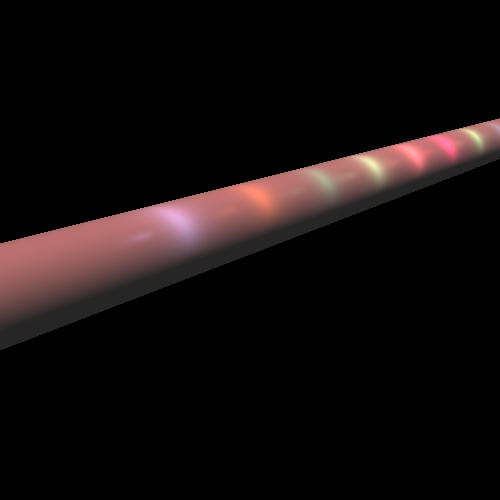
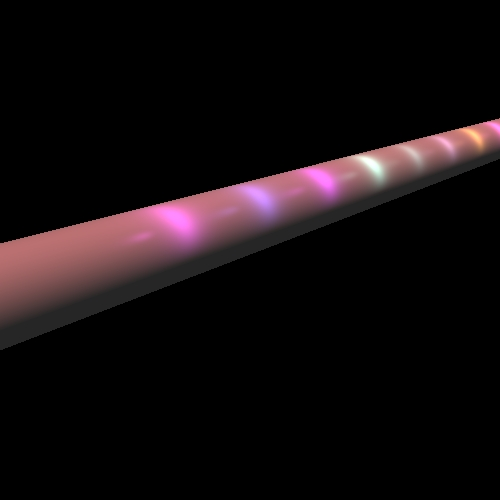
some fixes

Changed region(s): [[0.3, 0.24, 1.0, 0.51]]

diff --git a/src/elements/Camera.java b/src/elements/Camera.java
@@ -47,36 +47,21 @@ public class Camera {
     public Ray constructRayThroughPixel(int nX, int nY,
                                         int j, int i, double screenDistance,
                                         double screenWidth, double screenHeight) {
-        Point3D pc = _location.add(_vTo.scale(screenDistance));
-
         double ry = screenHeight / nY;
         double rx = screenWidth / nX;
 
         double xj = (j - nX / 2.0) * rx + rx / 2.0;
         double yi = (i - nY / 2.0) * ry + ry / 2.0;
 
-        Point3D pij = pc;
+        // pij = pc - center of the view plane
+        Point3D pij = _location.add(_vTo.scale(screenDistance));
         if (xj != 0)
             pij = pij.add(_vRight.scale(xj));
         if (yi != 0)
             pij = pij.add(_vUp.scale(-yi));
 
-
-        /*boolean y = isZero(j - (nX - 1) / 2.0);
-        boolean x = isZero(i - (nY - 1) / 2.0);
-        if (y && x)
-            pij = new Point3D(pc);
-        else if (y)
-            pij = pc.add((Point3D.ZERO).subtract((_vUp.scale((i - ((nY - 1) / 2.0)) * ry)).getEnd()));
-        else if (x)
-            pij = pc.add(_vRight.scale((j - ((nX - 1) / 2.0)) * rx));
-        else
-            pij = pc.add(_vRight.scale((j - ((nX - 1) / 2.0)) * rx).subtract(_vUp.scale((i - ((nY - 1) / 2.0)) * ry)));*/
-
         // pij is always not equal to _location
-        Vector vij = pij.subtract(_location);
-
-        return new Ray(_location, vij.normalized());
+        return new Ray(_location, pij.subtract(_location).normalized());
     }
 
     /**
